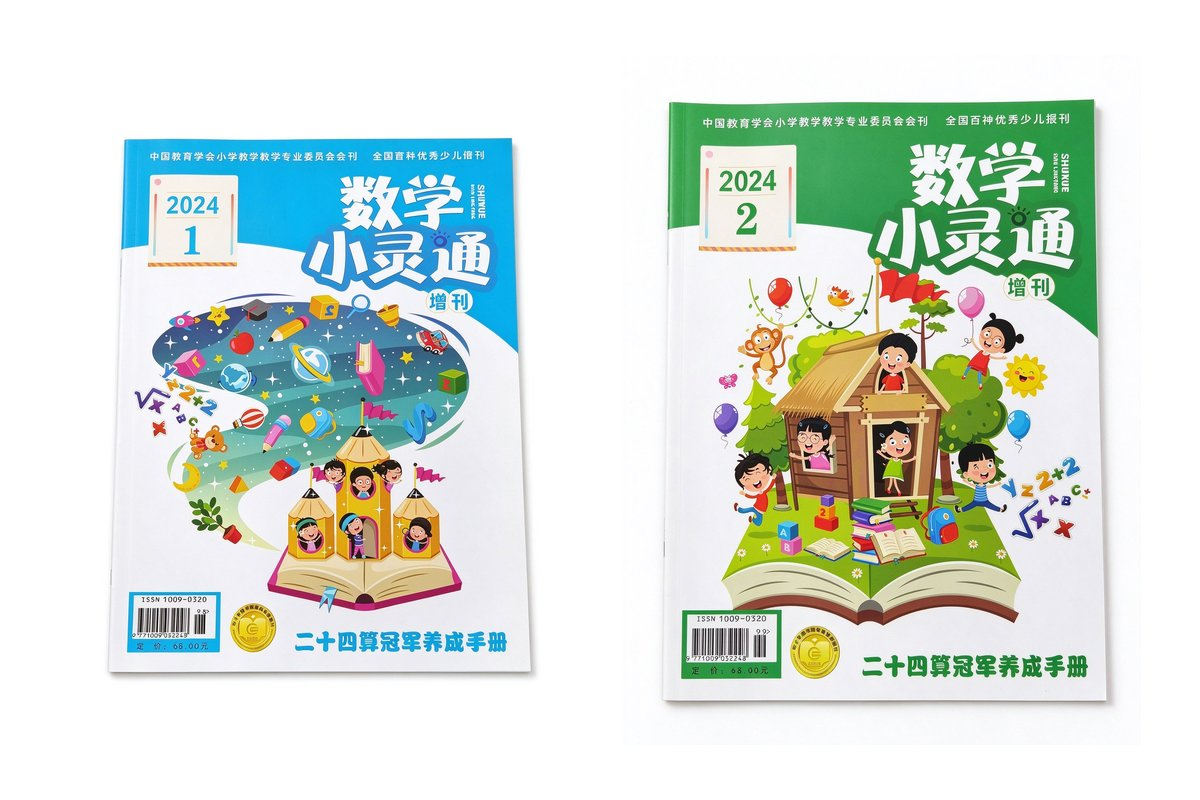
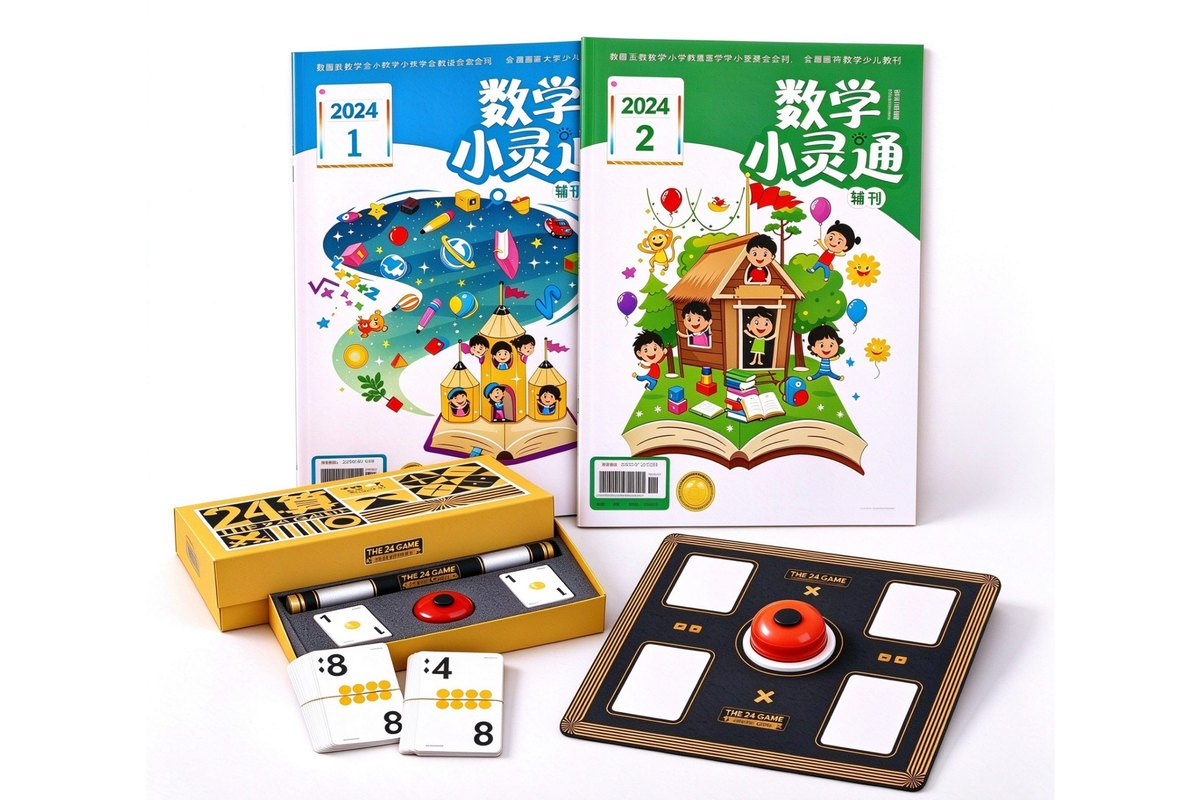
feat(m24pro): 24算旗舰版换用全家福产品主图（教具+2本手册+棋盘卡牌）
- games.js：图集第一位插入 flagship-main.jpg（完整正方形主图）
- flagship-card.jpg：改用全家福轻裁+补白生成 3:2 首页卡片图（产品完整保留）
- sw.js：VERSION v45→v46，预缓存加入 flagship-main.jpg

diff --git a/sw.js b/sw.js
@@ -1,6 +1,6 @@
 /* 优尔启蒙商城 Service Worker：预缓存全部资源，离线可浏览
    版本约定：改任何被预缓存的文件，必须 bump VERSION，否则老用户拿不到更新 */
-const VERSION = 'yoer-shop-v45';
+const VERSION = 'yoer-shop-v46';
 const PRECACHE = [
   'index.html',
   'detail.html',
@@ -103,7 +103,7 @@ const PRECACHE = [
   'images/games/feast/feast-card.jpg', 'images/games/grid/grid-card.jpg',
   'images/games/m24/m24-card.jpg', 'images/games/m24/m24-01.jpg', 'images/games/m24/m24-02.jpg',
   // 24算旗舰版（打包版）素材
-  'images/games/m24/flagship/flagship-card.jpg', 'images/games/m24/flagship/flagship-books.jpg',
+  'images/games/m24/flagship/flagship-main.jpg', 'images/games/m24/flagship/flagship-card.jpg', 'images/games/m24/flagship/flagship-books.jpg',
   'images/games/m24/flagship/flagship-book1.jpg', 'images/games/m24/flagship/flagship-book2.jpg',
   'images/games/m24/flagship/flagship-book1-back.jpg', 'images/games/m24/flagship/flagship-book2-back.jpg',
   'images/games/market/market-01.png', 'images/games/ocean/ocean-01.png',

diff --git a/games.js b/games.js
@@ -762,6 +762,7 @@ const GAMES = {
     ],
     contentsNote: '配置以产品包装实物为准；训练小程序需联网使用，具体权益以开通页面说明为准。',
     gallery: [
+      'images/games/m24/flagship/flagship-main.jpg',
       'images/games/m24/flagship/flagship-books.jpg',
       'images/games/m24/flagship/flagship-book1.jpg',
       'images/games/m24/flagship/flagship-book2.jpg',
